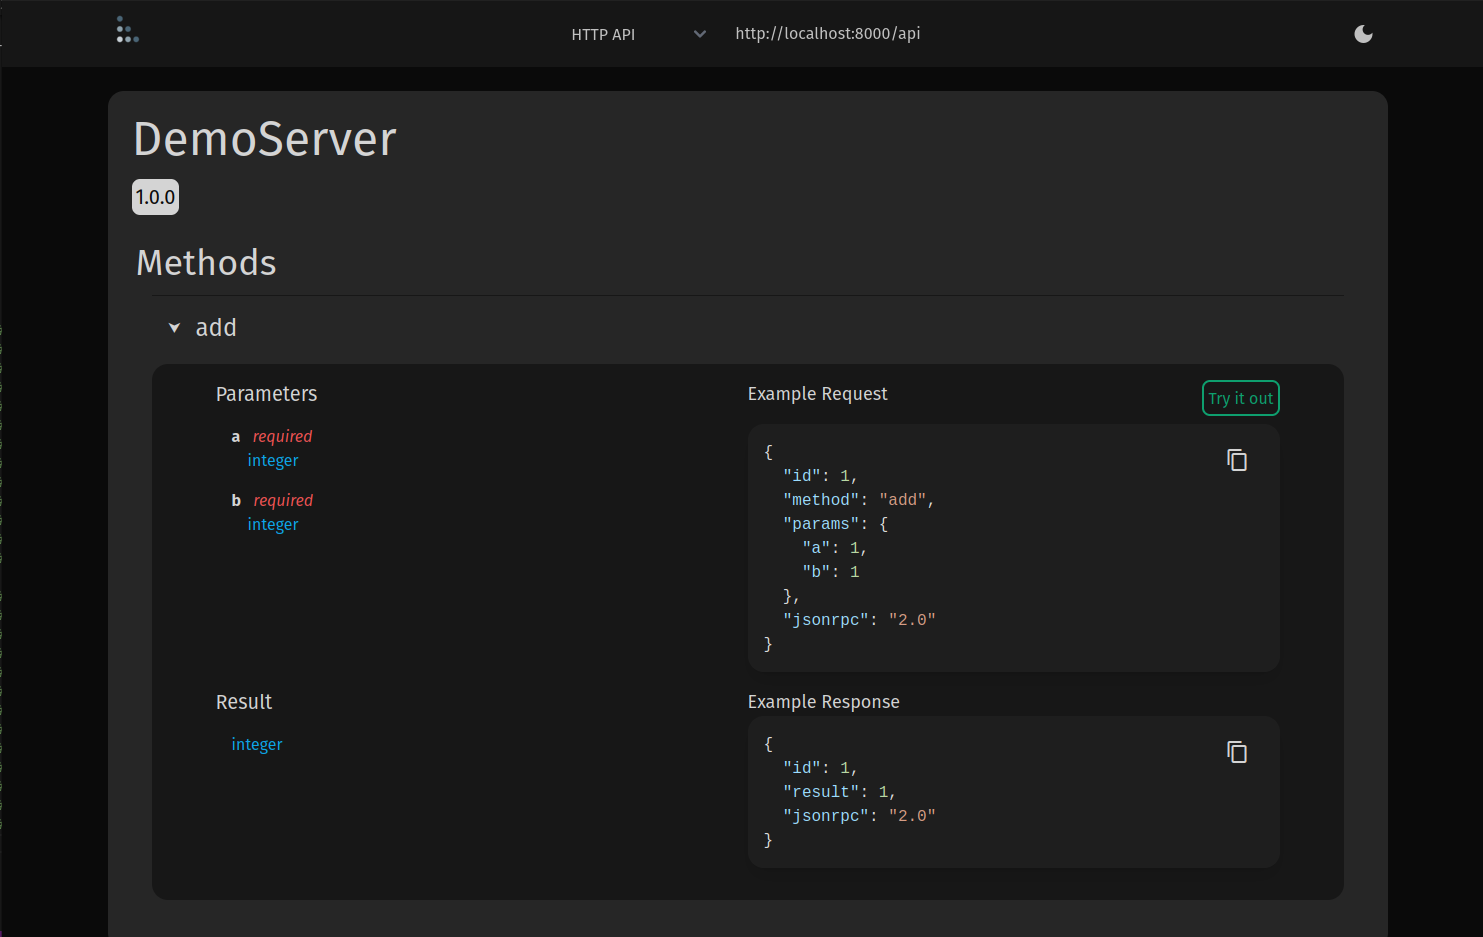
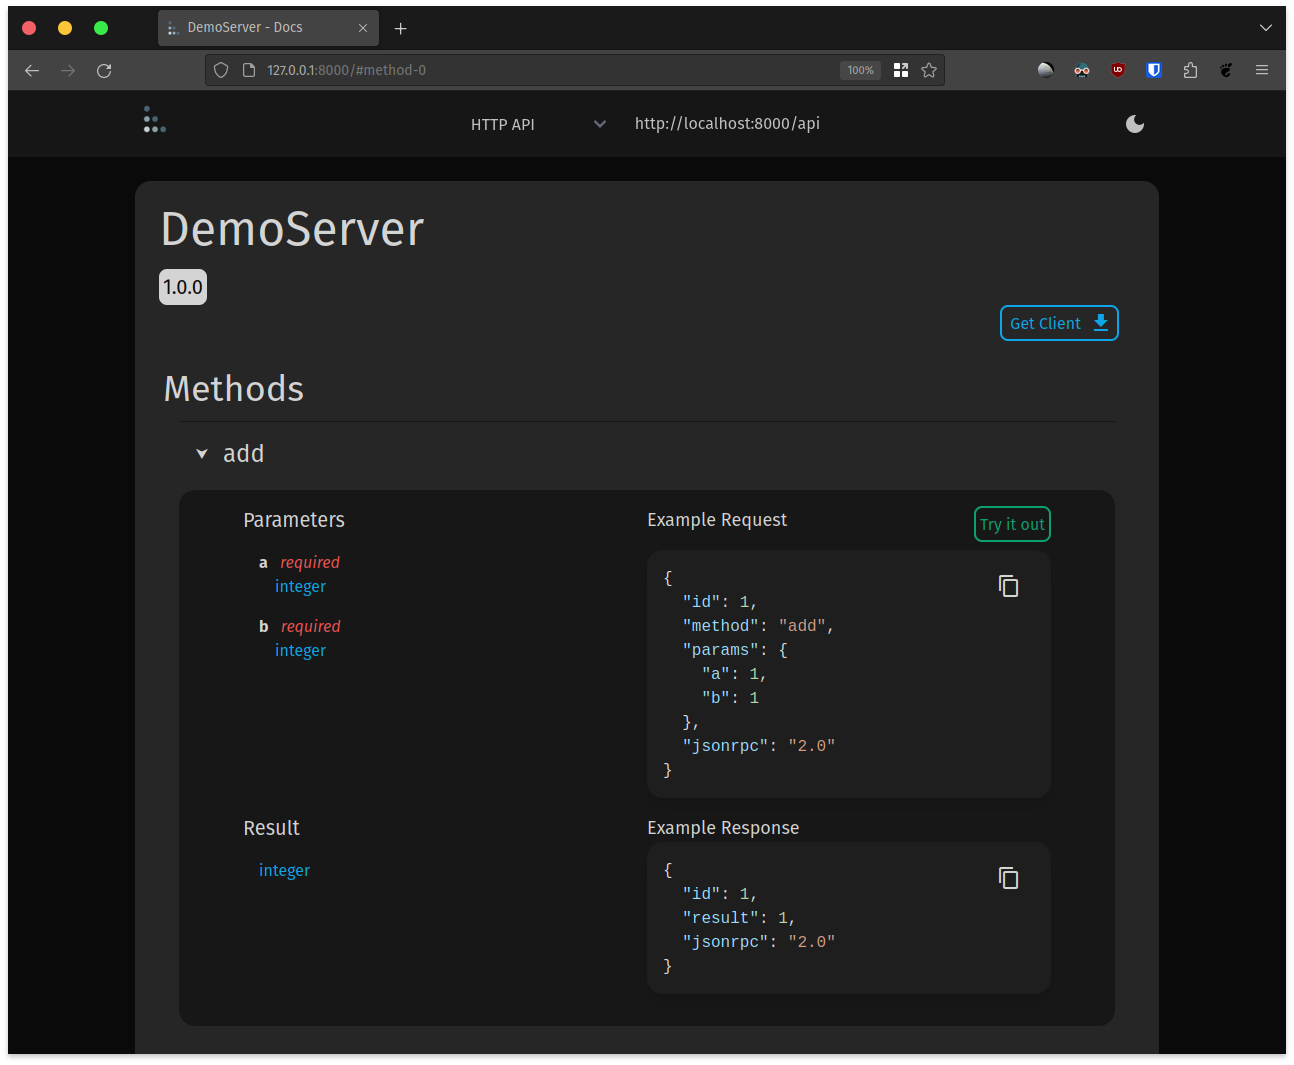
docs: add generated clients section

diff --git a/docs/docs/interactive_documentation.md b/docs/docs/interactive_documentation.md
@@ -9,6 +9,7 @@ sidebar_position: 6
 documentation for your RPC API. Run the following code:
 
 ```python
+import uvicorn
 from openrpc import RPCServer
 import tabella
 
@@ -23,11 +24,11 @@ async def add(a: int, b: int) -> int:
 app = tabella.get_app(rpc)
 
 if __name__ == "__main__":
-    uvicorn.run(app, host="0.0.0.0", port=8000)
+    uvicorn.run(app, host="127.0.0.1", port=8000)
 ```
-Then open http://localhost:8000/ to see the auto generated documentation.
+Then open http://127.0.0.1:8000/ to see the auto generated documentation.
 
-![img.png](demo.png)
+![Docs Demo](demo.png)
 
 # RPC Discover
 

diff --git a/docs/docs/generating_clients.md b/docs/docs/generating_clients.md
@@ -1,0 +1,17 @@
+---
+slug: /generate_clients
+sidebar_position: 7
+---
+
+# Client Generator
+
+Since the [OpenRPC](https://spec.open-rpc.org/) document is auto generated, clients for
+an RPC API can be auto-generated. To generate TypeScript, or Python clients for an API
+you can use the
+[OpenRPC Client Generator](https://gitlab.com/mburkard/openrpc-client-generator).
+
+Additionally, the client generator is built into
+[Tabella](https://gitlab.com/mburkard/tabella) and can be used from the interactive docs
+WebUI.
+
+![Download Client](download_client.png)

diff --git a/docs/docs/contributing.md b/docs/docs/contributing.md
@@ -1,6 +1,6 @@
 ---
 slug: /contributing
-sidebar_position: 8
+sidebar_position: 9
 ---
 
 # Contributing

diff --git a/docs/docs/errors.md b/docs/docs/errors.md
@@ -1,6 +1,6 @@
 ---
 slug: /errors
-sidebar_position: 7
+sidebar_position: 8
 ---
 
 # Errors
